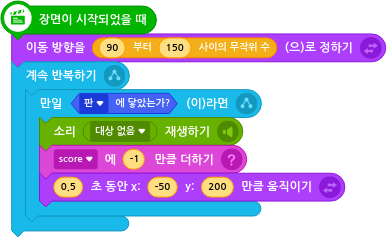
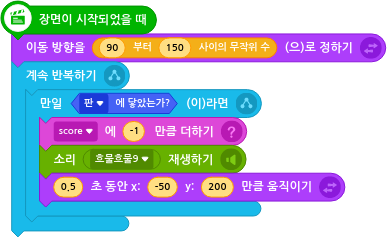
04

Changed region(s): [[0.093, 0.4706, 0.6512, 0.7647]]

diff --git a/08_핑퐁게임2.md b/08_핑퐁게임2.md
@@ -88,9 +88,9 @@
 - 시작하기 버튼을 클릭했을 때 'Ping Pong' 메세지가 출력되도록해주세요.
 - 글씨체와 글씨색, 배경색을 자유롭게 변경시켜주세요.
 
-> ![](/img/08_핑퐁게임/8_31.png)
+> ![](/img/08_핑퐁게임/8_46.png)
 
-- 게임 오버 신호를 받았을 때 "Game Over" 메세지를 출력해주세요. 
+- 게임 오버 신호를 받았을 때 "Game Over" 메세지를 출력하고 효과음을 재생시켜주세요. 
 
 
 ### 🧩 '점수' 코딩하기
@@ -133,15 +133,17 @@
 > ![](/img/08_핑퐁게임/야구공.png)
 - '야구공' 오브젝트를 선택해주세요. 
 
-**야구공 튕기기**
 > ![](/img/08_핑퐁게임/8_39.png)
 
 - 야구공이 자유롭게 이동하도록 해주고, 벽에 닿을시 튕겨나가도록 해주세요. 
 
 
-
 > ![](/img/08_핑퐁게임/8_40.png)
->
+
+
+- 장면이 시작되었을 때 방향을 '50'으로 정해주세요. 
+- '야구공'이 '판'에 닿을 경우 효과음이 재생되게 해주고, 점수를 추가해주세요. 
+- 또한 튀기는 효과를 주기위해 방향을 -70에서 70사이의 무작위 수로 정해주세요. 
 
 ### 🧩 양말 코딩하기 
 
@@ -151,7 +153,14 @@
 
 > ![](/img/08_핑퐁게임/8_41.png)
 
+- 야구공이 자유롭게 이동하도록 해주고, 벽에 닿을시 튕겨나가도록 해주세요. 
+
+
 > ![](/img/08_핑퐁게임/8_42.png)
+
+- 장면이 시작되었을 때 이동방향을 90부터 150 사이의 무작위수로 정해주세요.
+- 판에 닿았을 경우에 점수를 1점씩 차감시키고 효과음을 재생해주세요. 
+- 0.5초 동안 x는 -50, y는 200만큼 움직이게 해주세요. 
 
 
 
@@ -163,4 +172,4 @@
 
 
 > ![](/img/08_핑퐁게임/8_43.png)
-
+- 야구공이 가시(바닥)에 닿거나, 양말에 5번이상 닿아서 점수가 -5점이하가 되었을 때 게임오버 신호를 보내주고, '시작끝' 장면을 실행시켜주세요. 
